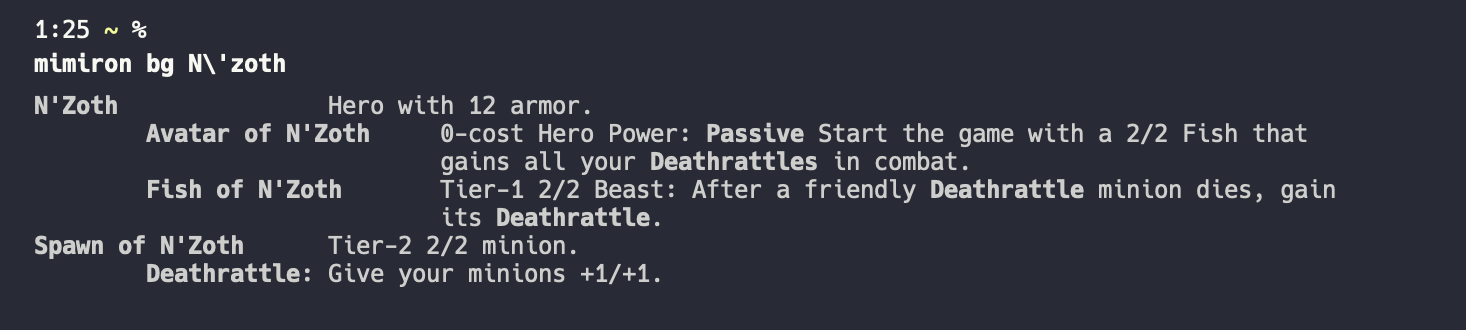
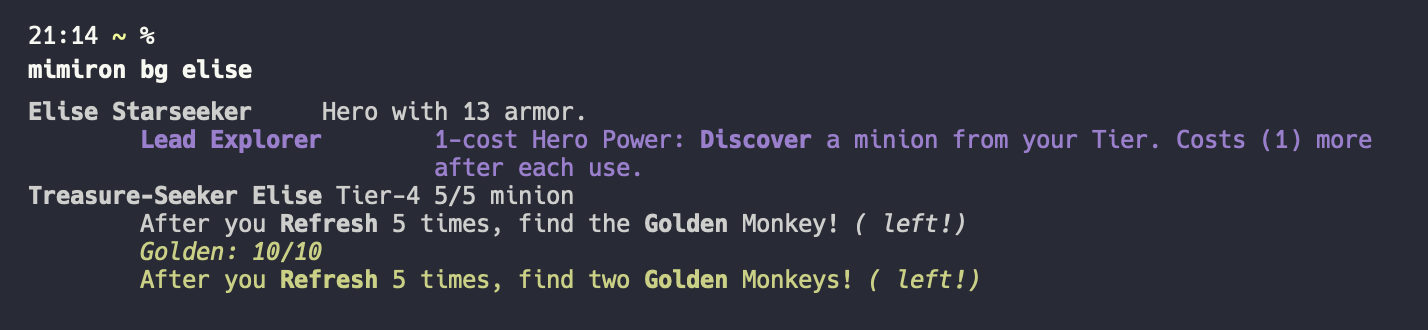
update README

Changed region(s): [[0.0, 0.2727, 0.9552, 0.8788], [0.0, 0.0606, 0.2157, 0.2424], [0.6162, 0.6364, 0.6779, 0.7273]]

diff --git a/README.md b/README.md
@@ -72,6 +72,20 @@ mimiron deck AAECAa0GCOWwBKi2BJfvBO+RBeKkBf3EBc/GBcbHBRCi6AOEnwShtgSktgSWtwT52wS
 
 (Yes, it looks like the [Hearthstone Top Decks](https://www.hearthstonetopdecks.com) format. I am a fan.)
 
+There are a couple more compact formats: `--single` and `--wide`.
+
+```
+mimiron deck AAECAa0GCOWwBKi2BJfvBO+RBeKkBf3EBc/GBcbHBRCi6AOEnwShtgSktgSWtwT52wS43AS63ASGgwXgpAW7xAW7xwX7+AW4ngbPngbRngYAAQO42QT9xAX/4QT9xAXFpQX9xAUAAA== --image --wide
+```
+
+![Deck image](README/deckimagewide.png)
+
+```
+mimiron deck AAECAa0GCOWwBKi2BJfvBO+RBeKkBf3EBc/GBcbHBRCi6AOEnwShtgSktgSWtwT52wS43AS63ASGgwXgpAW7xAW7xwX7+AW4ngbPngbRngYAAQO42QT9xAX/4QT9xAXFpQX9xAUAAA== --image
+```
+
+![Deck image](README/deckimage.png)
+
 Compare two decks:
 
 ```sh
@@ -83,7 +97,7 @@ mimiron deck -c AAECAa0GCoSfBOWwBKi2BP/hBJfvBO+RBeKkBf3EBc/GBc2eBg+i6AOhtgSktgSW
 Look up Battlegrounds minions and Heroes:
 
 ```sh
-mimiron bg "N'zoth"
+mimiron bg elise
 ```
 
 ![Battleground lookup](README/bglookup.png)
@@ -91,7 +105,7 @@ mimiron bg "N'zoth"
 Look up by tier and/or type:
 
 ```sh
-mimiron bg --tier 1 --type mech
+mimiron bg --tier 1 --type beast
 ```
 
 ![Battleground lookup](README/bgtiertypelookup.png)
